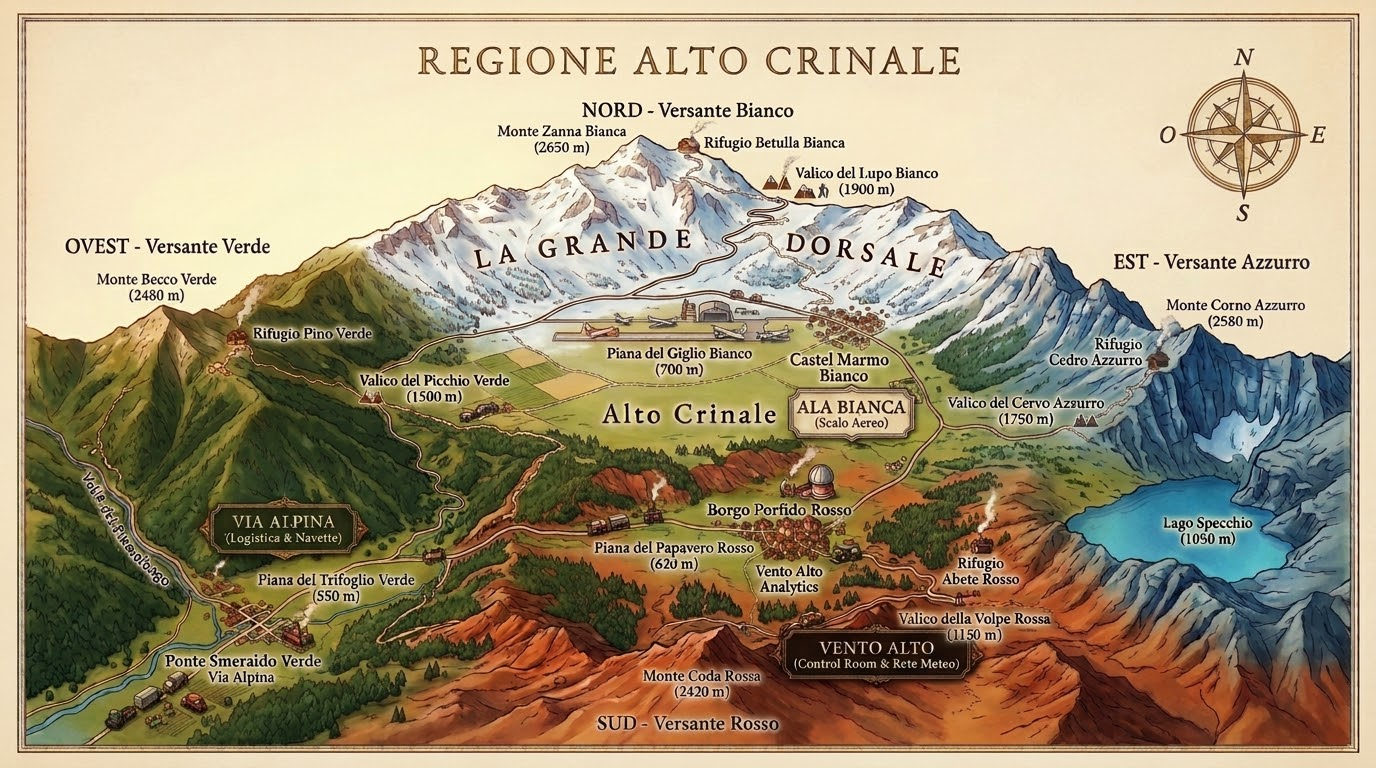
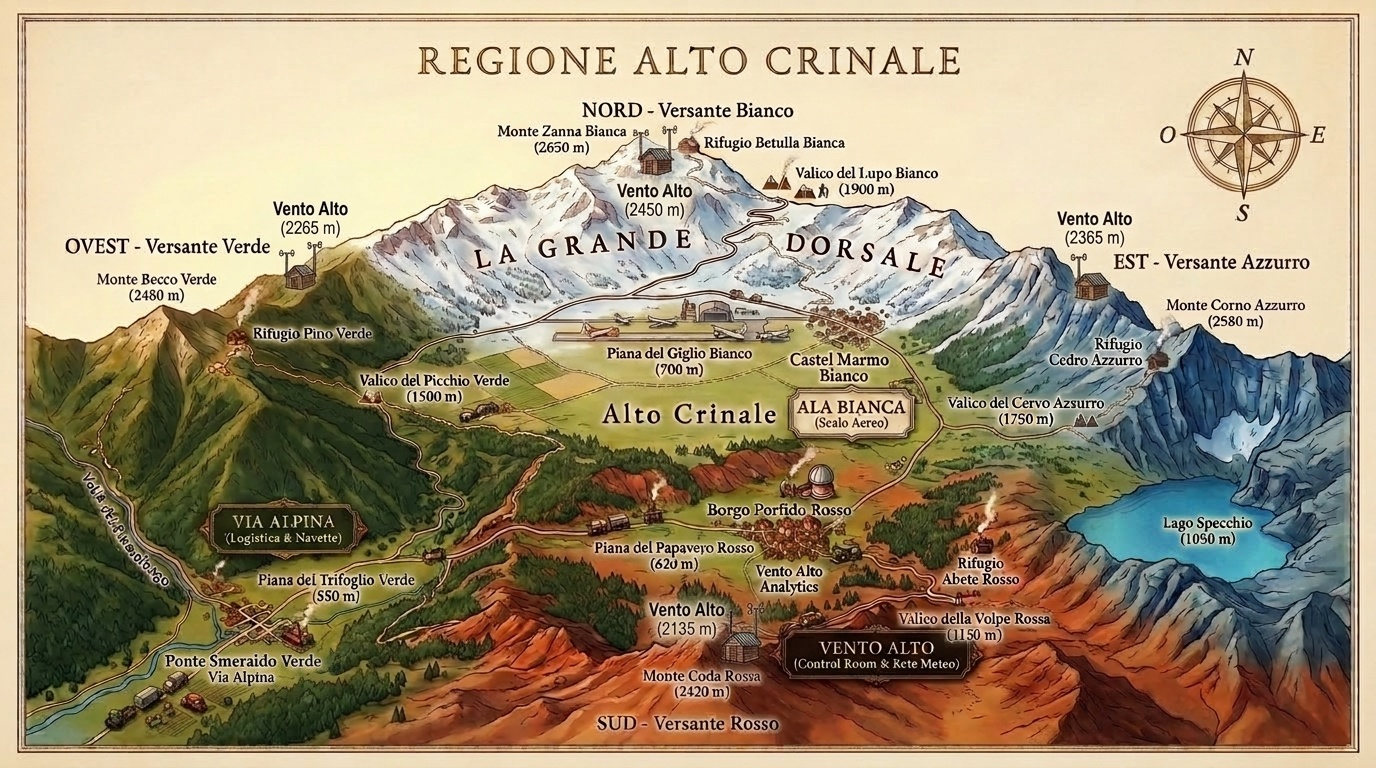
docs: add Vento Alto weather stations on all four mountain slopes

diff --git a/README.md b/README.md
@@ -24,7 +24,7 @@ A **est**, infine, si innalzano gli altopiani ventosi dell'**Unione d'Oriente**,
 
 # Prologo: Morfologia di Alto Crinale
 
-L'anfiteatro di Alto Crinale si legge scendendo dall'anello esterno verso il cuore della valle lungo i **quattro versanti**, ciascuno con la propria progressione **Monte (`> 2400 m`) → Rifugio → Valico → Piana / Lago → Borgo** e il proprio polo operativo. Su tutte e quattro le creste e nei rispettivi rifugi vegliano le stazioni in quota di **Vento Alto**.
+L'anfiteatro di Alto Crinale si legge scendendo dall'anello esterno verso il cuore della valle lungo i **quattro versanti**, ciascuno con la propria progressione **Monte (`> 2400 m`) → Capannina Vento Alto → Rifugio → Valico → Piana / Lago → Borgo** e il proprio polo operativo. Su tutte e quattro le creste — a metà strada tra ciascun rifugio e la rispettiva cima — vegliano le capannine in quota di **Vento Alto**.
 
 <p align="center">
   <img src="assets/mappa-alto-crinale.jpg" alt="Mappa morfologica della Regione Alto Crinale" width="380" />
@@ -39,6 +39,7 @@ L'anfiteatro di Alto Crinale si legge scendendo dall'anello esterno verso il cuo
 È il fronte più freddo e battuto dai venti, affacciato sulle città operose e sulle fonderie settentrionali. Proprio qui, sulla cresta battuta dalle tormente tra **Monte Zanna Bianca** e **Rifugio Betulla Bianca** (`2450 m`), nacque la prima capannina solitaria di **Vento Alto**; mentre nella conca ampia e riparata a fondovalle si è sviluppato lo scalo di **Ala Bianca**.
 * **Stato confinante**: **Confederazione del Nord**
 * **Monte (`2650 m`)**: **Monte Zanna Bianca**
+* **Capannina Vento Alto (`2450 m`)**: cresta tra Monte Zanna Bianca e Rifugio Betulla Bianca *(prima sentinella storica)*
 * **Rifugio (`2250 m`)**: **Rifugio Betulla Bianca**
 * **Valico (`1900 m`)**: **Valico del Lupo Bianco**
 * **Piana (`700 m`)**: **Piana del Giglio Bianco**
@@ -58,6 +59,7 @@ Oggi chi sbarca ad Ala Bianca trova un aeroporto alpino affidabile e aperto al c
 È il versante più mite e aperto tutto l'anno, la porta naturale verso i porti meridionali: qui sorge l'antica dogana controllata da **Via Alpina** e qui, nelle Puntate 4–5, **Vento Alto** ha spostato in pianura il proprio **3° polo operativo** (**Vento Alto Analytics**), nella conca più accessibile in ogni stagione.
 * **Stato confinante**: **Repubbliche del Mare**
 * **Monte (`2420 m`)**: **Monte Coda Rossa**
+* **Capannina Vento Alto (`2135 m`)**: cresta tra Monte Coda Rossa e Rifugio Abete Rosso
 * **Rifugio (`1850 m`)**: **Rifugio Abete Rosso**
 * **Valico (`1150 m`)**: **Valico della Volpe Rossa** *(dogana di frontiera)*
 * **Piana (`620 m`)**: **Piana del Papavero Rosso**
@@ -67,7 +69,7 @@ Oggi chi sbarca ad Ala Bianca trova un aeroporto alpino affidabile e aperto al c
 
 <img src="assets/vento-alto.png" alt="Vento Alto: Le Sentinelle della Cresta e Control Room Regionale" width="200" align="left" />
 
-La storia di **Vento Alto** inizia in solitudine a `2450 m`, sulla cresta esposta tra il **Monte Zanna Bianca (`2650 m`)** e il **Rifugio Betulla Bianca (`2250 m`)**, dentro una piccola capannina di legno dove un osservatore trascriveva a mano forza del vento e pressione su taccuini cerati prima che la tormenta strappasse i fili del telegrafo. Da quella prima sentinella solitaria è nata una costellazione di cinquanta stazioni alpine distribuite su tutte le **4 cime**, i **4 rifugi** e i **4 valichi** dell'anello montuoso.
+La storia di **Vento Alto** inizia in solitudine a `2450 m`, sulla cresta esposta tra il **Monte Zanna Bianca (`2650 m`)** e il **Rifugio Betulla Bianca (`2250 m`)**, dentro una piccola capannina di legno dove un osservatore trascriveva a mano forza del vento e pressione su taccuini cerati prima che la tormenta strappasse i fili del telegrafo. Da quella prima sentinella solitaria è nata una costellazione di cinquanta stazioni alpine, guidata dalle **4 capannine di cresta** (una per versante, a metà strada tra rifugio e cima), dai **4 rifugi** e dai **4 valichi** dell'anello montuoso.
 
 Nelle fasi successive, davanti alla piena di milioni di pacchetti radar e serie storiche provenienti da tutta la valle, l'osservatorio compie il salto decisivo: lasciando intatti i sensori sulle creste, scende in pianura nella **Piana del Papavero Rosso (`620 m`)** a **Borgo Porfido Rosso**, aprendo il **3° polo operativo** della regione (**Vento Alto Analytics**).
 
@@ -77,6 +79,7 @@ Nelle fasi successive, davanti alla piena di milioni di pacchetti radar e serie 
 Tra boschi fitti e tornanti che scendono verso i fiumi e i campi di grano d'Occidente, il torrente della **Valle del Fiumelungo** attraversa la piana più bassa della regione: è il corridoio vitale di **Via Alpina**, che da qui coordina trasporti su gomma verso tutti e quattro i valichi.
 * **Stato confinante**: **Terre d'Occidente**
 * **Monte (`2480 m`)**: **Monte Becco Verde**
+* **Capannina Vento Alto (`2265 m`)**: cresta tra Monte Becco Verde e Rifugio Pino Verde
 * **Rifugio (`2050 m`)**: **Rifugio Pino Verde**
 * **Valico (`1500 m`)**: **Valico del Picchio Verde**
 * **Piana (`550 m`)**: **Piana del Trifoglio Verde**
@@ -96,6 +99,7 @@ Oggi la **Control Tower intermodale** di Via Alpina coordina ogni partenza in di
 Sotto le pareti che guardano gli altopiani ventosi d'Oriente, la montagna scende ripida senza lasciare spazio a piane o borghi: al loro posto si apre il **Lago Specchio**, uno specchio d'acqua alpino raggiungibile solo con le navette di **Via Alpina** e osservato dai bollettini pubblici di **Vento Alto**.
 * **Stato confinante**: **Unione d'Oriente**
 * **Monte (`2580 m`)**: **Monte Corno Azzurro**
+* **Capannina Vento Alto (`2365 m`)**: cresta tra Monte Corno Azzurro e Rifugio Cedro Azzurro
 * **Rifugio (`2150 m`)**: **Rifugio Cedro Azzurro**
 * **Valico (`1750 m`)**: **Valico del Cervo Azzurro**
 * **Lago (`1050 m`)**: **Lago Specchio** *(nessuna piana né borgo)*
